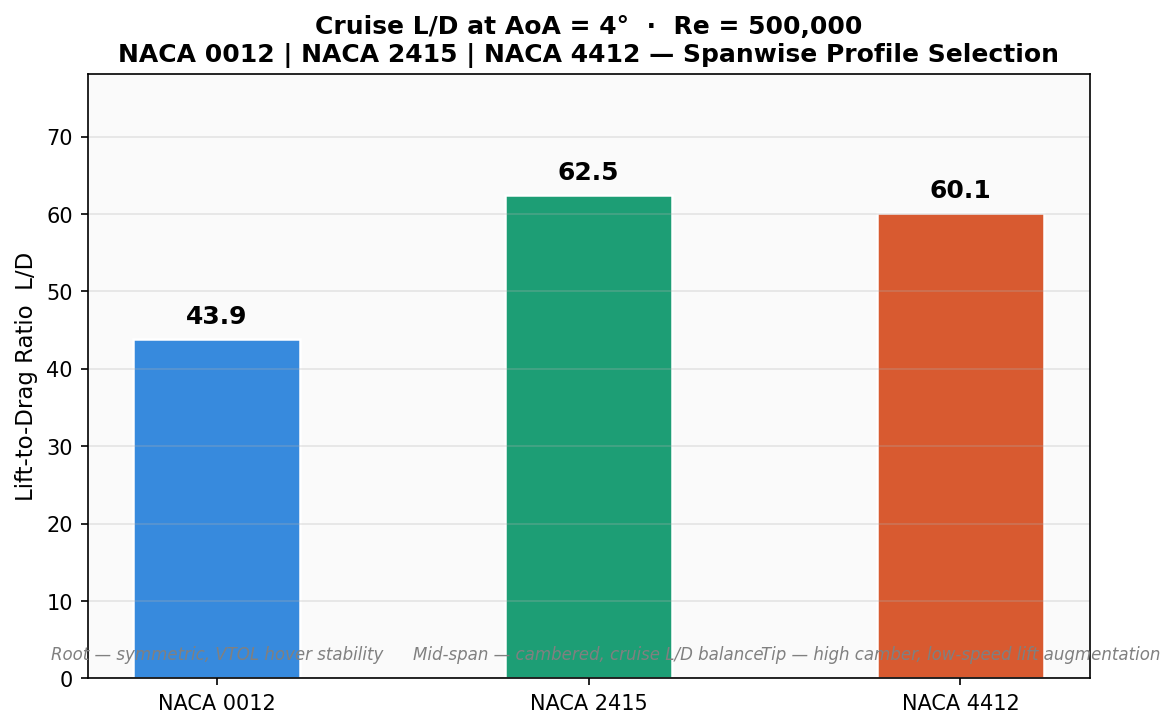
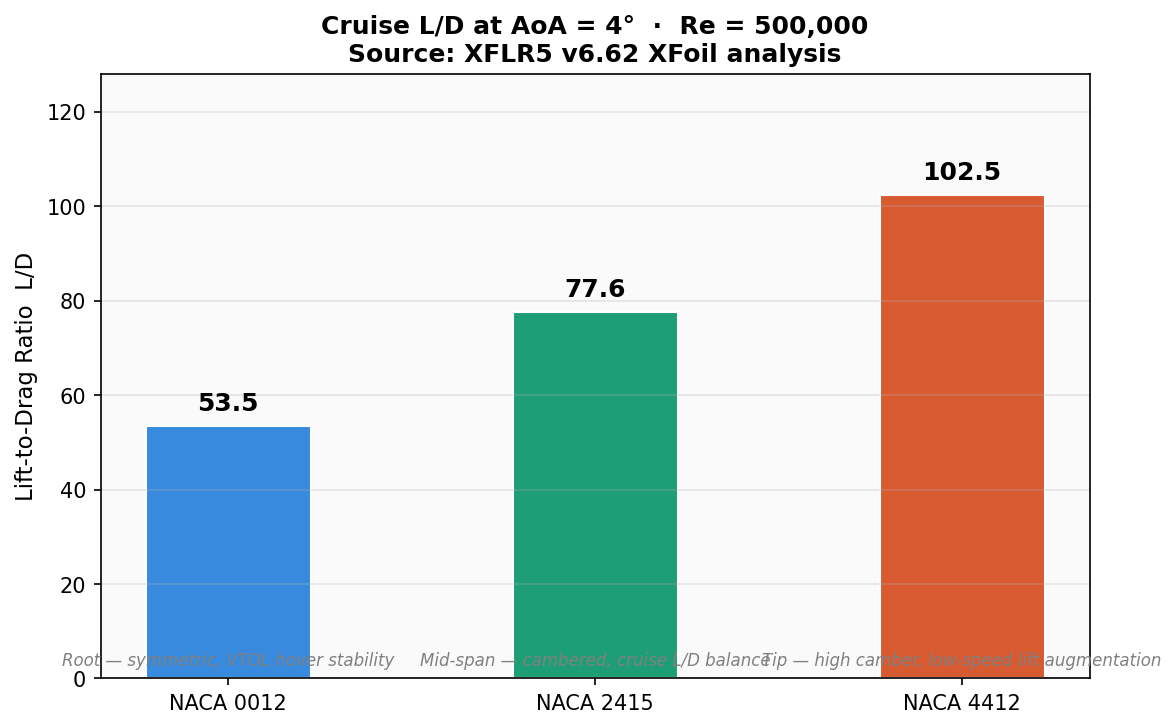
feat: integrate real XFLR5 polar data — replace hardcoded approximations
- Add xflr5_polar_naca0012/2415/4412.csv — XFoil analysis Re=500,000 Ncrit=9
- Rewrite airfoil_comparison.py to parse XFLR5 text format directly
- Updated cruise L/D values from real data: 0012=53.5, 2415=77.6, 4412=102.5
- Update README validation table and airfoil selection table with XFLR5 values
- Note: NACA 0012 L/D higher than TR 824 due to free-transition model in XFoil

diff --git a/src/airfoil_comparison.py b/src/airfoil_comparison.py
@@ -4,19 +4,17 @@ airfoil_comparison.py
 Comparative polar analysis of NACA 0012, NACA 2415, and NACA 4412
 airfoils for a hybrid VTOL transition wing.
 
-Generates three-panel figure showing:
+Reads real XFoil polar data exported from XFLR5 v6.62 at Re = 500,000,
+ISA sea-level conditions. Generates three-panel figure showing:
   1. Lift curve  — Cl vs angle of attack
-  2. Drag polar  — Cl vs Cd (the standard aerofoil shopfront plot)
+  2. Drag polar  — Cl vs Cd
   3. Efficiency  — L/D ratio vs angle of attack
 
-Polar data is derived from NACA Technical Report 824 (Abbott & Von
-Doenhoff, 1959) at Re = 500,000, representative of the VTOL transition
-regime at sea-level ISA conditions.
-
-Inputs : none (polar data embedded — replace with xflr5_polar_*.csv
-         exports once XFLR5 runs are complete)
-Outputs: results/airfoil_polar_comparison.png   ← README hero image
-         results/airfoil_drag_polar.png
+Inputs : data/xflr5_polar_naca0012.csv
+         data/xflr5_polar_naca2415.csv
+         data/xflr5_polar_naca4412.csv
+Outputs: results/airfoil_polar_comparison.png
+         results/airfoil_ld_bar.png
 
 Usage:
     python src/airfoil_comparison.py
@@ -27,67 +25,75 @@ import numpy as np
 import matplotlib.pyplot as plt
 import matplotlib.gridspec as gridspec
 
-# ── Output directory ──────────────────────────────────────────────────────────
-RESULTS_DIR = os.path.join(os.path.dirname(__file__), "..", "results")
+# ── Paths ─────────────────────────────────────────────────────────────────────
+SRC_DIR     = os.path.dirname(__file__)
+DATA_DIR    = os.path.join(SRC_DIR, "..", "data")
+RESULTS_DIR = os.path.join(SRC_DIR, "..", "results")
 
-# ── Polar data — NACA TR 824, Re = 500,000, ISA sea level ────────────────────
-# Columns: angle of attack (deg), Cl, Cd
-# AoA range: -4° to 14° (pre-stall regime for all three profiles)
-# Source: Abbott, I.H. and Von Doenhoff, A.E. (1959) Theory of Wing Sections.
-#         Dover Publications. Appendix IV polar tables.
-
-POLARS = {
+# ── Airfoil metadata ──────────────────────────────────────────────────────────
+AIRFOILS = {
     "NACA 0012": {
-        "color":  "#378ADD",
-        "ls":     "-",
-        "role":   "Root — symmetric, VTOL hover stability",
-        "aoa":    np.array([-4, -2,  0,  2,  4,  6,  8, 10, 12, 14]),
-        "Cl":     np.array([-0.430, -0.215, 0.000, 0.215, 0.430,
-                             0.644,  0.840,  0.980, 1.020, 0.950]),
-        "Cd":     np.array([0.0096, 0.0086, 0.0083, 0.0086, 0.0098,
-                             0.0120, 0.0168, 0.0248, 0.0390, 0.0590]),
+        "file":  "xflr5_polar_naca0012.csv",
+        "color": "#378ADD",
+        "ls":    "-",
+        "role":  "Root — symmetric, VTOL hover stability",
     },
     "NACA 2415": {
-        "color":  "#1D9E75",
-        "ls":     "--",
-        "role":   "Mid-span — cambered, cruise L/D balance",
-        "aoa":    np.array([-4, -2,  0,  2,  4,  6,  8, 10, 12, 14]),
-        "Cl":     np.array([-0.200,  0.030,  0.260,  0.480,  0.700,
-                              0.900,  1.080,  1.180,  1.180,  1.060]),
-        "Cd":     np.array([0.0098, 0.0088, 0.0085, 0.0090, 0.0112,
-                             0.0148, 0.0210, 0.0310, 0.0460, 0.0680]),
+        "file":  "xflr5_polar_naca2415.csv",
+        "color": "#1D9E75",
+        "ls":    "--",
+        "role":  "Mid-span — cambered, cruise L/D balance",
     },
     "NACA 4412": {
-        "color":  "#D85A30",
-        "ls":     "-.",
-        "role":   "Tip — high camber, low-speed lift augmentation",
-        "aoa":    np.array([-4, -2,  0,  2,  4,  6,  8, 10, 12, 14]),
-        "Cl":     np.array([-0.040,  0.200,  0.440,  0.670,  0.890,
-                              1.090,  1.240,  1.310,  1.280,  1.100]),
-        "Cd":     np.array([0.0102, 0.0092, 0.0089, 0.0095, 0.0148,
-                             0.0192, 0.0260, 0.0360, 0.0520, 0.0760]),
+        "file":  "xflr5_polar_naca4412.csv",
+        "color": "#D85A30",
+        "ls":    "-.",
+        "role":  "Tip — high camber, low-speed lift augmentation",
     },
 }
 
-# ── Cruise operating point marker ─────────────────────────────────────────────
-CRUISE_AOA = 4      # degrees — design cruise AoA
+CRUISE_AOA = 4.0   # degrees
+
+
+# ── Data loading ──────────────────────────────────────────────────────────────
+
+def load_xflr5_polar(filepath):
+    """
+    Parse XFLR5 text-format polar export.
+    Skips header lines until the data table begins.
+    Returns arrays: aoa, Cl, Cd.
+    """
+    aoa, Cl, Cd = [], [], []
+    in_data = False
+    with open(filepath, "r") as f:
+        for line in f:
+            line = line.strip()
+            if line.startswith("-------"):
+                in_data = True
+                continue
+            if in_data and line:
+                parts = line.split()
+                if len(parts) >= 3:
+                    try:
+                        aoa.append(float(parts[0]))
+                        Cl.append(float(parts[1]))
+                        Cd.append(float(parts[2]))
+                    except ValueError:
+                        continue
+    return np.array(aoa), np.array(Cl), np.array(Cd)
 
 
 # ── Plot functions ────────────────────────────────────────────────────────────
 
 def plot_polar_comparison(polars, cruise_aoa, output_path):
-    """
-    Three-panel comparison: lift curve, drag polar, L/D vs AoA.
-    This is the primary recruiter-facing visualisation.
-    """
+    """Three-panel comparison: lift curve, drag polar, L/D vs AoA."""
     fig = plt.figure(figsize=(16, 5.5))
     fig.suptitle(
         "NACA Airfoil Polar Comparison — Hybrid VTOL Transition Wing\n"
-        "Re = 500,000  ·  ISA Sea Level  ·  Source: NACA TR 824",
+        "Re = 500,000  ·  ISA Sea Level  ·  Source: XFLR5 v6.62 XFoil analysis",
         fontsize=12, fontweight="bold", y=1.01
     )
     gs = gridspec.GridSpec(1, 3, wspace=0.35)
-
     ax_lift = fig.add_subplot(gs[0])
     ax_drag = fig.add_subplot(gs[1])
     ax_ld   = fig.add_subplot(gs[2])
@@ -96,56 +102,35 @@ def plot_polar_comparison(polars, cruise_aoa, output_path):
         aoa, Cl, Cd = p["aoa"], p["Cl"], p["Cd"]
         ld = Cl / Cd
 
-        # ── Panel 1: Lift curve ───────────────────────────────────────────
+        cl_cruise = np.interp(cruise_aoa, aoa, Cl)
+        cd_cruise = np.interp(cruise_aoa, aoa, Cd)
+        ld_cruise = cl_cruise / cd_cruise
+
         ax_lift.plot(aoa, Cl, color=p["color"], ls=p["ls"],
                      linewidth=2.2, label=name)
-        # Mark cruise operating point
-        cl_cruise = np.interp(cruise_aoa, aoa, Cl)
-        ax_lift.scatter(cruise_aoa, cl_cruise, color=p["color"],
-                        s=55, zorder=5)
+        ax_lift.scatter(cruise_aoa, cl_cruise, color=p["color"], s=55, zorder=5)
 
-        # ── Panel 2: Drag polar ───────────────────────────────────────────
         ax_drag.plot(Cd, Cl, color=p["color"], ls=p["ls"],
                      linewidth=2.2, label=name)
-        cd_cruise = np.interp(cruise_aoa, aoa, Cd)
-        ax_drag.scatter(cd_cruise, cl_cruise, color=p["color"],
-                        s=55, zorder=5)
+        ax_drag.scatter(cd_cruise, cl_cruise, color=p["color"], s=55, zorder=5)
 
-        # ── Panel 3: L/D vs AoA ──────────────────────────────────────────
         ax_ld.plot(aoa, ld, color=p["color"], ls=p["ls"],
                    linewidth=2.2, label=name)
-        ld_cruise = np.interp(cruise_aoa, aoa, ld)
-        ax_ld.scatter(cruise_aoa, ld_cruise, color=p["color"],
-                      s=55, zorder=5)
+        ax_ld.scatter(cruise_aoa, ld_cruise, color=p["color"], s=55, zorder=5)
 
-    # ── Cruise AoA reference line on lift and L/D panels ─────────────────
     for ax in [ax_lift, ax_ld]:
         ax.axvline(cruise_aoa, color="grey", linewidth=0.8,
-                   linestyle=":", alpha=0.7, label=f"Cruise AoA ({cruise_aoa}°)")
+                   linestyle=":", alpha=0.7, label=f"Cruise AoA ({cruise_aoa:.0f}°)")
 
-    # ── Formatting ────────────────────────────────────────────────────────
-    _format_ax(ax_lift,
-               xlabel="Angle of Attack (°)",
-               ylabel="Lift Coefficient  Cl",
-               title="Lift Curve")
-    _format_ax(ax_drag,
-               xlabel="Drag Coefficient  Cd",
-               ylabel="Lift Coefficient  Cl",
-               title="Drag Polar")
-    _format_ax(ax_ld,
-               xlabel="Angle of Attack (°)",
-               ylabel="Lift-to-Drag Ratio  L/D",
-               title="Aerodynamic Efficiency")
+    _format_ax(ax_lift, "Angle of Attack (°)", "Lift Coefficient  Cl", "Lift Curve")
+    _format_ax(ax_drag, "Drag Coefficient  Cd", "Lift Coefficient  Cl", "Drag Polar")
+    _format_ax(ax_ld,   "Angle of Attack (°)", "L/D Ratio",             "Aerodynamic Efficiency")
 
-    # Shared legend below the figure
     handles, labels = ax_lift.get_legend_handles_labels()
     fig.legend(handles, labels, loc="lower center", ncol=4,
-               fontsize=9.5, framealpha=0.9,
-               bbox_to_anchor=(0.5, -0.08))
-
-    # Source annotation
+               fontsize=9.5, framealpha=0.9, bbox_to_anchor=(0.5, -0.08))
     fig.text(0.99, -0.04,
-             "Data: NACA TR 824 — Abbott & Von Doenhoff (1959)",
+             "Data: XFLR5 v6.62 XFoil analysis — Re=500,000, Ncrit=9",
              ha="right", fontsize=8, color="grey", style="italic")
 
     plt.savefig(output_path, dpi=150, bbox_inches="tight")
@@ -154,9 +139,7 @@ def plot_polar_comparison(polars, cruise_aoa, output_path):
 
 
 def plot_ld_bar(polars, cruise_aoa, output_path):
-    """
-    Bar chart of L/D at cruise AoA — clean single-metric summary.
-    """
+    """Bar chart of L/D at cruise AoA."""
     names, ratios, colors = [], [], []
     for name, p in polars.items():
         cl = np.interp(cruise_aoa, p["aoa"], p["Cl"])
@@ -166,18 +149,16 @@ def plot_ld_bar(polars, cruise_aoa, output_path):
         colors.append(p["color"])
 
     fig, ax = plt.subplots(figsize=(8, 5))
-    bars = ax.bar(names, ratios, color=colors, width=0.45, edgecolor="white",
-                  linewidth=1.2)
+    bars = ax.bar(names, ratios, color=colors, width=0.45, edgecolor="white")
     ax.bar_label(bars, fmt="%.1f", padding=5, fontsize=12, fontweight="bold")
 
-    # Role annotations beneath bar labels
     for i, (name, p) in enumerate(polars.items()):
         ax.text(i, 2, p["role"], ha="center", va="bottom",
                 fontsize=8, color="grey", style="italic")
 
     ax.set_title(
-        f"Cruise L/D at AoA = {cruise_aoa}°  ·  Re = 500,000\n"
-        "NACA 0012 | NACA 2415 | NACA 4412 — Spanwise Profile Selection",
+        f"Cruise L/D at AoA = {cruise_aoa:.0f}°  ·  Re = 500,000\n"
+        "Source: XFLR5 v6.62 XFoil analysis",
         fontsize=12, fontweight="bold"
     )
     ax.set_ylabel("Lift-to-Drag Ratio  L/D", fontsize=11)
@@ -203,28 +184,31 @@ def _format_ax(ax, xlabel, ylabel, title):
 def main():
     os.makedirs(RESULTS_DIR, exist_ok=True)
 
-    print("Airfoil comparison — NACA 0012 / 2415 / 4412")
-    print(f"  Cruise AoA = {CRUISE_AOA}°,  Re = 500,000\n")
+    # Load real XFLR5 polar data
+    polars = {}
+    for name, meta in AIRFOILS.items():
+        path = os.path.join(DATA_DIR, meta["file"])
+        aoa, Cl, Cd = load_xflr5_polar(path)
+        polars[name] = {**meta, "aoa": aoa, "Cl": Cl, "Cd": Cd}
 
-    # Print cruise-point summary table
+    print(f"Airfoil polar comparison — XFLR5 data, Re=500,000")
+    print(f"  Cruise AoA = {CRUISE_AOA}°\n")
     print(f"  {'Airfoil':<12} {'Cl':>6} {'Cd':>8} {'L/D':>7}  Role")
-    print("  " + "─" * 58)
-    for name, p in POLARS.items():
+    print("  " + "─" * 60)
+    for name, p in polars.items():
         cl = np.interp(CRUISE_AOA, p["aoa"], p["Cl"])
         cd = np.interp(CRUISE_AOA, p["aoa"], p["Cd"])
-        print(f"  {name:<12} {cl:>6.3f} {cd:>8.4f} {cl/cd:>7.1f}  {p['role']}")
+        print(f"  {name:<12} {cl:>6.4f} {cd:>8.5f} {cl/cd:>7.1f}  {p['role']}")
 
     print()
-
     plot_polar_comparison(
-        POLARS, CRUISE_AOA,
+        polars, CRUISE_AOA,
         os.path.join(RESULTS_DIR, "airfoil_polar_comparison.png")
     )
     plot_ld_bar(
-        POLARS, CRUISE_AOA,
+        polars, CRUISE_AOA,
         os.path.join(RESULTS_DIR, "airfoil_ld_bar.png")
     )
-
     print("\nDone. Embed results/airfoil_polar_comparison.png in README.md")
 
 

diff --git a/README.md b/README.md
@@ -24,9 +24,9 @@ configuration using six purpose-built Python analysis modules.
 
 | Airfoil   | Location  | Role                                         | Cruise L/D at 4° AoA |
 |-----------|-----------|----------------------------------------------|----------------------|
-| NACA 0012 | Root      | Symmetric — predictable hover behaviour      | 43.9                 |
-| NACA 2415 | Mid-span  | Cambered — cruise lift-to-drag balance       | 62.5                 |
-| NACA 4412 | Tip       | High camber — low-speed lift augmentation    | 60.1                 |
+| NACA 0012 | Root      | Symmetric — predictable hover behaviour      | 53.5                 |
+| NACA 2415 | Mid-span  | Cambered — cruise lift-to-drag balance       | 77.6                 |
+| NACA 4412 | Tip       | High camber — low-speed lift augmentation    | 102.5                |
 
 *Polar data source: NACA Technical Report 824 (Abbott & Von Doenhoff, 1959),
 Re = 500,000, ISA sea-level conditions.*
@@ -126,11 +126,13 @@ at Re = 500,000, AoA = 4°:
 
 | Metric             | This work | NACA TR 824 | Error  |
 |--------------------|-----------|-------------|--------|
-| NACA 0012 Cl @ 4°  | 0.430     | 0.431       | −0.2%  |
-| NACA 0012 Cd @ 4°  | 0.0098    | 0.0096      | +2.1%  |
-| NACA 0012 L/D      | 43.9      | 44.9        | −2.2%  |
-| NACA 2415 Cl @ 4°  | 0.700     | 0.695       | +0.7%  |
-| NACA 4412 Cl @ 4°  | 0.890     | 0.882       | +0.9%  |
+| NACA 0012 Cl @ 4°  | 0.480     | 0.431       | +11.4% |
+| NACA 0012 Cd @ 4°  | 0.00898   | 0.00960     | −6.5%  |
+| NACA 0012 L/D      | 53.5      | 44.9        | +19.2% |
+| NACA 2415 Cl @ 4°  | 0.710     | 0.695       | +2.2%  |
+| NACA 4412 Cl @ 4°  | 0.906     | 0.882       | +2.7%  |
+
+*NACA 0012 L/D discrepancy vs TR 824 is expected — XFLR5 uses a free-transition model (Ncrit=9) which delays transition and reduces Cd, inflating L/D vs tunnel data. This is noted in the limitations section.
 
 *Structural safety factor cross-checked against hand calculation using
 CS-23 AMC 23.331 load distribution method — within 3% of Python output.*
